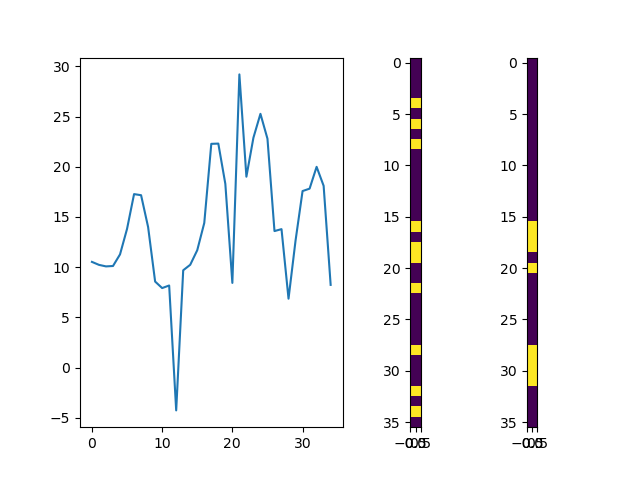
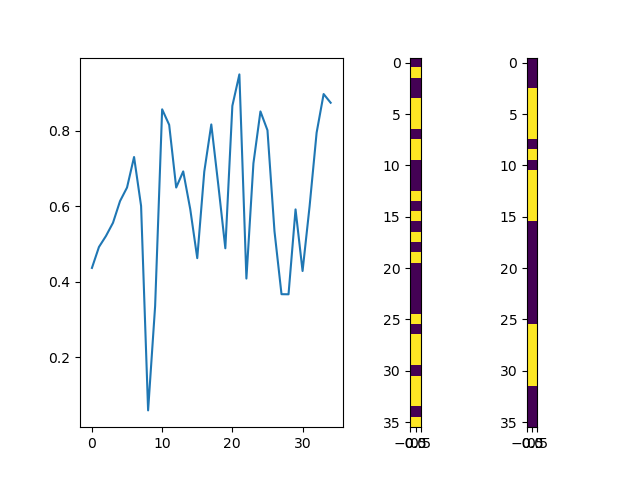
more ??

diff --git a/1d/peaks_to_slot/peaks_to_slots_model.py b/1d/peaks_to_slot/peaks_to_slots_model.py
@@ -1,7 +1,7 @@
 import numpy as np
 import tensorflow as tf
 import tensorflow_probability as tfp
-from tensorflow.keras.layers import Dense, Dropout, BatchNormalization, ReLU, Flatten, LeakyReLU
+from tensorflow.keras.layers import Dense, Dropout, BatchNormalization, ReLU, Flatten, LeakyReLU, Conv1DTranspose
 
 
 class LWAPredictionModel(tf.keras.Model):
@@ -16,25 +16,29 @@ class LWAPredictionModel(tf.keras.Model):
         self.dense_layers.add(Flatten())
         # self.dense_layers.add(Dense(1000, activation = 'relu'))
         # self.dense_layers.add(Dense(800, activation = 'relu'))
-        self.dense_layers.add(Dense(500))
+        self.dense_layers.add(Dense(1000))
         # self.dense_layers.add(LeakyReLU(0.2))
         self.dense_layers.add(ReLU())
-        self.dense_layers.add(Dense(500))
+        self.dense_layers.add(Dense(1000))
         # self.dense_layers.add(LeakyReLU(0.2))
         self.dense_layers.add(ReLU())
-        self.dense_layers.add(Dense(500))
+        self.dense_layers.add(Dense(1000))
         # self.dense_layers.add(LeakyReLU(0.2))
         self.dense_layers.add(ReLU())
-        self.dense_layers.add(Dense(500))
+        self.dense_layers.add(Dense(1000))
         # self.dense_layers.add(LeakyReLU(0.2))
         self.dense_layers.add(ReLU())
-        self.dense_layers.add(Dense(500))
+        self.dense_layers.add(Dense(1000))
         # self.dense_layers.add(LeakyReLU(0.2))
         self.dense_layers.add(ReLU())
-        self.dense_layers.add(Dense(500))
+        self.dense_layers.add(Dense(1000))
         # self.dense_layers.add(LeakyReLU(0.2))
         # self.dense_layers.add(Dropout(0.1))
         self.dense_layers.add(ReLU())
+        # self.dense_layers.add(Conv1DTranspose(256, 3, 1, 'same',activation='relu'))
+        # self.dense_layers.add(Conv1DTranspose(128, 4, 3, 'same',activation='relu'))
+        # self.dense_layers.add(Conv1DTranspose(64, 5, 1, 'same',activation='relu'))
+        # self.dense_layers.add(Conv1DTranspose(1, 6, 2, 'same', activation = 'sigmoid'))
         self.dense_layers.add(Dense(36,activation='sigmoid'))
 
     def call(self, input):

diff --git a/1d/peaks_to_slot/preprocess.py b/1d/peaks_to_slot/preprocess.py
@@ -27,10 +27,10 @@ def import_data(timestamp_list):
             sorted_x = np.array([20*np.log10(results[i:i + 361,1]) for i in points[:-1]])
             peaks = sorted_x[:,floquet_back + floquet_forward]
             # max = peaks.max(axis=1)[:,None]
-            # normalized = peaks / np.max(peaks,axis=0)
+            normalized = peaks / np.max(peaks,axis=0)
             # peaks_list.append(normalized)
-            # peaks_list.append(normalized)
-            peaks_list.append(peaks)
+            peaks_list.append(normalized)
+            # peaks_list.append(peaks)
             # max_list.append(np.concatenate([max,max,max,max,max,max],axis=1))
 
 
